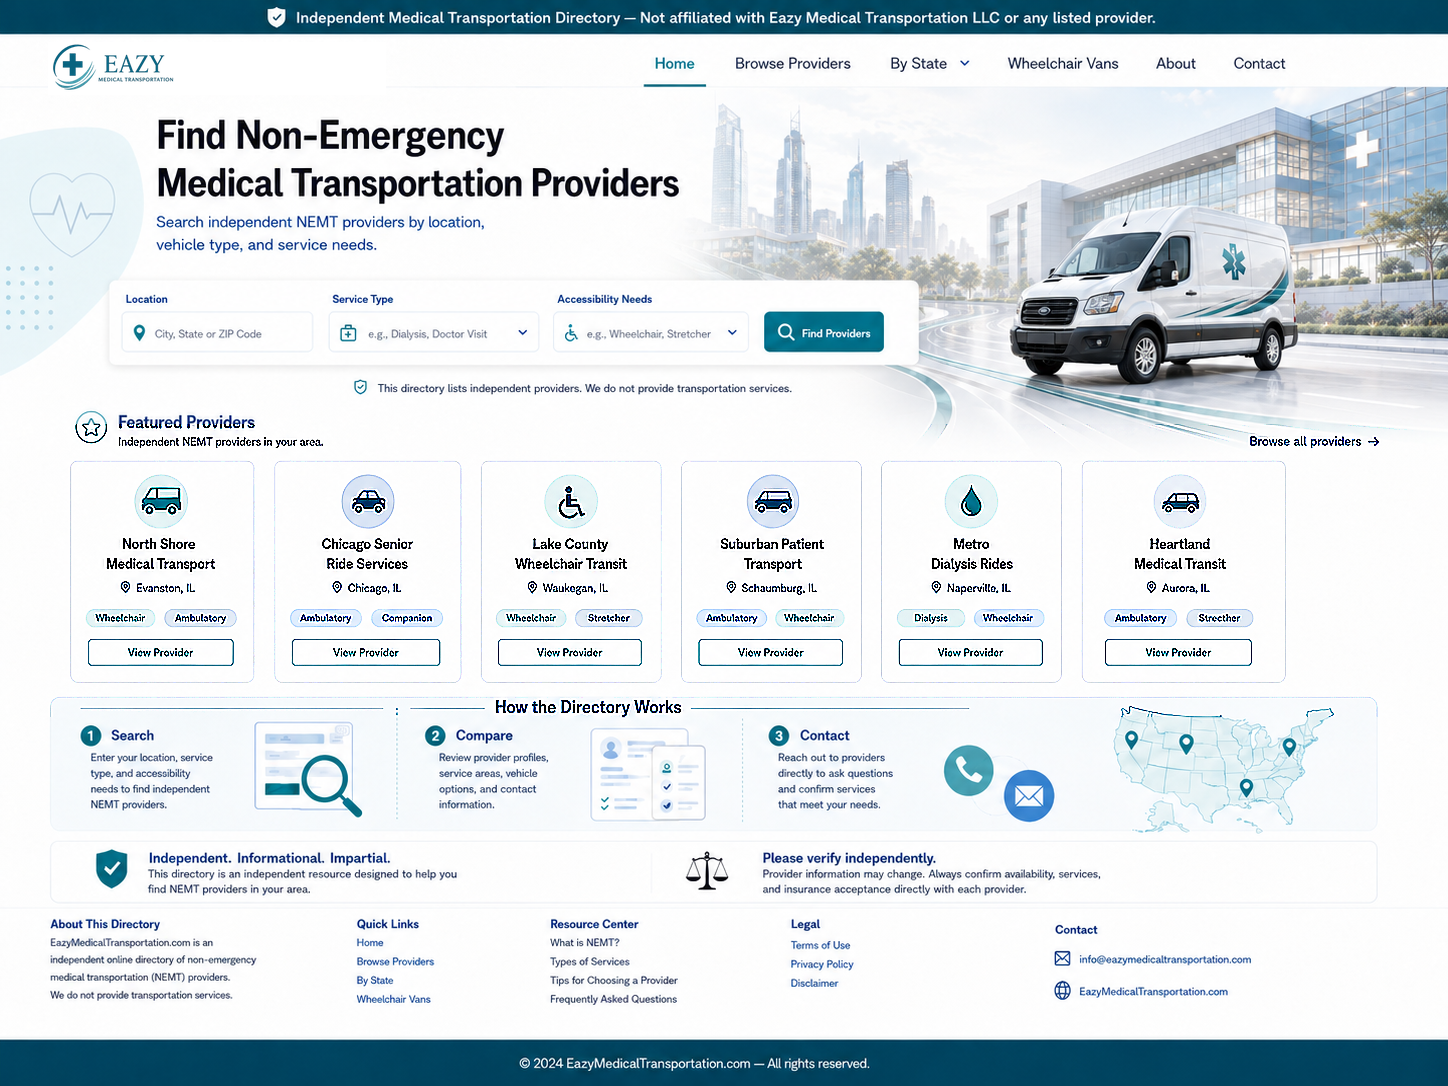
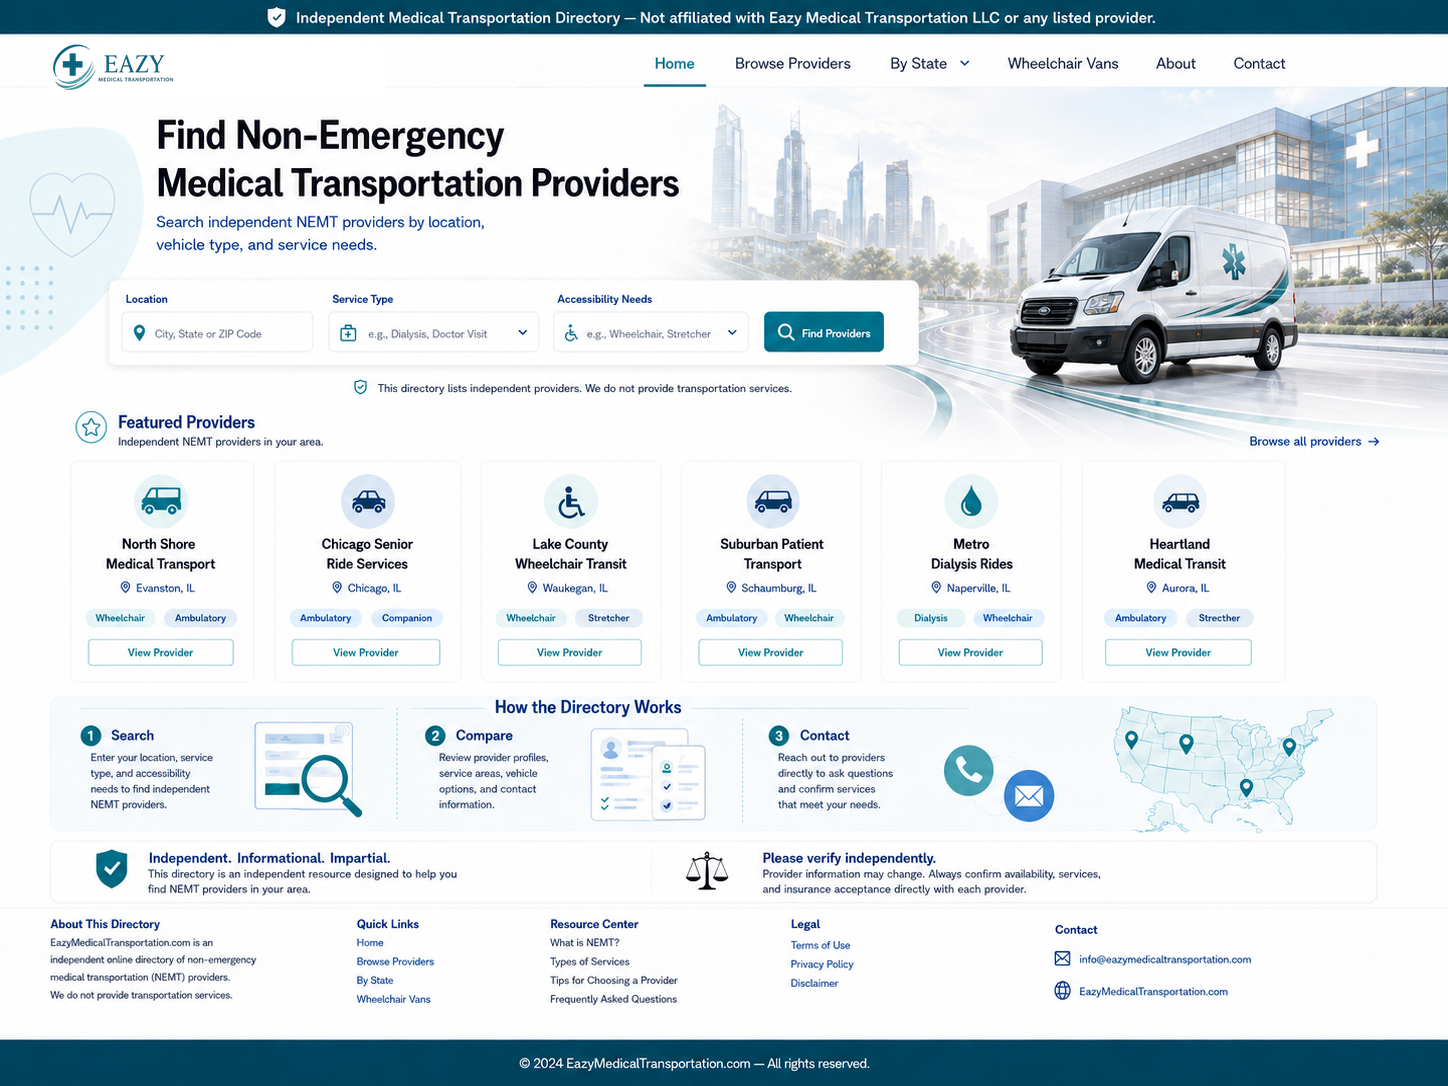
Restore last visually acceptable Eazy version

diff --git a/menu-fix.js b/menu-fix.js
@@ -11,7 +11,7 @@
   function openModal(title,html){const w=document.getElementById('modal'),t=document.getElementById('modalTitle'),b=document.getElementById('modalBody');if(!w||!t||!b)return;t.textContent=title;b.innerHTML=html;w.classList.add('open')}
   function closeModal(){const w=document.getElementById('modal');if(w)w.classList.remove('open')}
   function scrollRatio(r){const root=document.getElementById('desktopDirectory');if(!root)return;window.scrollTo({top:Math.max(0,Math.round(root.offsetTop+root.offsetHeight*r)),behavior:'smooth'})}
-  async function getStateData(abbr){const r=await fetch(`data/providers/${abbr}.json?v=controls6`,{cache:'no-store'});if(!r.ok)throw new Error('State database unavailable');return r.json()}
+  async function getStateData(abbr){const r=await fetch(`data/providers/${abbr}.json?v=controls5`,{cache:'no-store'});if(!r.ok)throw new Error('State database unavailable');return r.json()}
   function providerList(list,note=''){if(!list.length)return `${note?`<div class="claim-callout">${esc(note)}</div>`:''}<div class="claim-callout">No matching providers are currently indexed for this selection.</div>`;return `${note?`<div class="claim-callout">${esc(note)}</div>`:''}<div class="results">${list.slice(0,250).map(p=>`<div class="result"><h3>${esc(p.name)}</h3><p>${esc(p.address1||'')}${p.address1?'<br>':''}${esc(p.city)}, ${esc(p.state)} ${esc(String(p.zip||'').slice(0,5))}${p.phone?`<br>${esc(p.phone)}`:''}</p><div class="tags" style="margin-top:8px">${(p.categories||p.tags||['NEMT']).slice(0,4).map(x=>`<span class="tag">${esc(x)}</span>`).join('')}</div>${p.phone?`<div class="result-actions"><a class="btn-secondary" href="tel:${esc(p.phone)}">Call Provider</a></div>`:''}</div>`).join('')}</div>`}
   function categorySet(data,name){if(!name)return null;return new Set((data.categories?.[name]||[]).map(String))}
   function hasCategory(p,set,name){if(!name)return true;if(set&&set.has(String(p.npi)))return true;return [...(p.categories||[]),...(p.tags||[])].some(x=>String(x).toLowerCase().includes(String(name).toLowerCase()))}
@@ -21,62 +21,6 @@
   function selected(desktop,mobile){return document.getElementById(mobile)?.value||document.getElementById(desktop)?.value||''}
   function stripStateTerms(q,abbr){let s=String(q||''),name=stateName(abbr);s=s.replace(new RegExp(`\\b${abbr}\\b`,'ig'),' ').replace(new RegExp(name.replace(/[.*+?^${}()|[\]\\]/g,'\\$&'),'ig'),' ');return s.replace(/[,]+/g,' ').replace(/\s+/g,' ').trim()}
   async function runSearch(){const q=selected('location','mLocation').trim(),service=selected('service','mService').trim(),access=selected('accessibility','mAccessibility').trim(),zip=zip5(q),abbr=stateFromText(q)||stateFromZip(zip)||window.__eazyMenuState||'IL',name=stateName(abbr);openModal('Find Providers','<div class="claim-callout">Searching provider database…</div>');try{const data=await getStateData(abbr);let list=data.providers||[],note='';if(zip){const exact=list.filter(p=>String(p.zip||'').slice(0,5)===zip);if(exact.length)list=exact;else{const prefix=zip.slice(0,3),near=list.filter(p=>String(p.zip||'').startsWith(prefix));if(near.length){list=near;note=`No providers are indexed in ZIP ${zip}; showing providers in nearby ${prefix}xx ZIP codes.`}else note=`No providers are indexed in ZIP ${zip} or nearby ${prefix}xx ZIP codes; showing ${name} providers.`}}else if(q){const terms=stripStateTerms(q,abbr).toLowerCase().split(/\s+/).filter(Boolean);if(terms.length){const local=list.filter(p=>{const hay=[p.name,p.city,p.zip,p.address1].join(' ').toLowerCase();return terms.every(t=>hay.includes(t))});if(local.length)list=local;else note=`No exact location matches were found for “${q}”; showing ${name} providers.`}}const sset=categorySet(data,service),aset=categorySet(data,access);if(service)list=list.filter(p=>hasCategory(p,sset,service));if(access)list=list.filter(p=>hasCategory(p,aset,access));currentState=abbr;window.__eazyMenuState=abbr;openModal(`${zip?`Providers for ${zip}`:`${name} Providers`} (${list.length})`,providerList(list,note))}catch(e){console.error('Independent provider search failed',e);openModal('Find Providers','<div class="claim-callout">The provider database could not be loaded. Please try again.</div>')}}
-
-  function installCrispProviderCards(){
-    const root=document.getElementById('desktopDirectory');
-    if(!root||root.querySelector('.crisp-provider-layer'))return;
-    const cleanImage='https://raw.githubusercontent.com/Zeitgeist23/eazy-medical-transportation/9a50aa4f7ad5c5aa320b62bad69a23823f7feaf0/directory-landing-approved.png';
-    const img=root.querySelector(':scope > img');
-    if(img)img.src=cleanImage;
-    const style=document.createElement('style');
-    style.textContent=`
-      .crisp-provider-layer{position:absolute;inset:0;z-index:6;pointer-events:none;font-family:Arial,Helvetica,sans-serif;-webkit-font-smoothing:antialiased;text-rendering:geometricPrecision}
-      .crisp-provider-layer .cp-mask{position:absolute;top:48.65%;width:12.15%;height:13.75%;background:#fff;box-sizing:border-box}
-      .crisp-provider-layer .cp-name,.crisp-provider-layer .cp-city,.crisp-provider-layer .cp-tags,.crisp-provider-layer .cp-view{position:absolute;box-sizing:border-box;text-align:center;z-index:1}
-      .crisp-provider-layer .cp-name{top:49.35%;width:12.15%;min-height:3.25%;display:flex;align-items:center;justify-content:center;background:#fff;color:#111827;font-weight:700;font-size:clamp(9px,.72vw,14px);line-height:1.08;padding:0 .22%}
-      .crisp-provider-layer .cp-city{top:53.18%;width:12.15%;height:1.72%;display:flex;align-items:center;justify-content:center;background:#fff;color:#174b83;font-weight:600;font-size:clamp(8px,.60vw,12px);line-height:1}
-      .crisp-provider-layer .cp-tags{top:55.48%;width:12.15%;height:2.18%;display:flex;align-items:center;justify-content:center;gap:.55%;background:#fff}
-      .crisp-provider-layer .cp-tags span{display:inline-flex;align-items:center;justify-content:center;height:1.52vw;max-height:23px;min-height:15px;padding:0 .52vw;border:1px solid #b7dfe7;border-radius:999px;background:#eaf7f9;color:#174b83;font-weight:700;font-size:clamp(7px,.56vw,11px);line-height:1;white-space:nowrap}
-      .crisp-provider-layer .cp-view{top:59.35%;height:2.8%;display:flex;align-items:center;justify-content:center;background:#fff;border:1.5px solid #13889a;border-radius:4px;color:#0b5269;font-weight:700;font-size:clamp(8px,.66vw,13px);line-height:1}
-      @media(max-width:760px){.crisp-provider-layer{display:none}.hero-art{background-image:url('${cleanImage}')!important}}
-    `;
-    document.head.appendChild(style);
-    const cards=[
-      {left:'5.35%',buttonLeft:'6.3%',buttonWidth:'10.3%',name:'North Shore Medical Transport',city:'Evanston, IL',tags:['Wheelchair','Ambulatory']},
-      {left:'19.35%',buttonLeft:'20.2%',buttonWidth:'10.5%',name:'Chicago Senior Ride Services',city:'Chicago, IL',tags:['Ambulatory','Companion']},
-      {left:'33.72%',buttonLeft:'34.6%',buttonWidth:'10.4%',name:'Lake County Wheelchair Transit',city:'Waukegan, IL',tags:['Wheelchair','Stretcher']},
-      {left:'47.82%',buttonLeft:'48.7%',buttonWidth:'10.5%',name:'Suburban Patient Transport',city:'Schaumburg, IL',tags:['Ambulatory','Wheelchair']},
-      {left:'61.22%',buttonLeft:'62.1%',buttonWidth:'10.5%',name:'Metro Dialysis Rides',city:'Naperville, IL',tags:['Dialysis','Wheelchair']},
-      {left:'75.22%',buttonLeft:'76.1%',buttonWidth:'10.5%',name:'Heartland Medical Transit',city:'Aurora, IL',tags:['Ambulatory','Stretcher']}
-    ];
-    const layer=document.createElement('div');
-    layer.className='crisp-provider-layer';
-    layer.setAttribute('aria-hidden','true');
-    layer.innerHTML=cards.map(c=>`<div class="cp-mask" style="left:${c.left}"></div><div class="cp-name" style="left:${c.left}">${esc(c.name)}</div><div class="cp-city" style="left:${c.left}">⌾ ${esc(c.city)}</div><div class="cp-tags" style="left:${c.left}">${c.tags.map(t=>`<span>${esc(t)}</span>`).join('')}</div><div class="cp-view" style="left:${c.buttonLeft};width:${c.buttonWidth}">View Provider</div>`).join('');
-    root.appendChild(layer);
-  }
-
-  function installCrispSearchText(){
-    const root=document.getElementById('desktopDirectory');
-    if(!root||root.querySelector('.crisp-directory-note'))return;
-    const style=document.createElement('style');
-    style.textContent=`
-      #location{background:#fff!important;color:#4d6474!important;-webkit-text-fill-color:#4d6474!important;font-weight:500!important;font-size:clamp(9px,.78vw,14px)!important;-webkit-font-smoothing:antialiased;text-rendering:geometricPrecision}
-      #location::placeholder{color:#4d6474!important;opacity:1!important}
-      #service,#accessibility{color:#4d6474!important;-webkit-text-fill-color:#4d6474!important;font-weight:500!important;font-size:clamp(9px,.76vw,14px)!important;background:linear-gradient(90deg,#fff 0%,#fff 84%,rgba(255,255,255,0) 84%,rgba(255,255,255,0) 100%)!important;-webkit-font-smoothing:antialiased;text-rendering:geometricPrecision}
-      .crisp-directory-note{position:absolute;left:27.5%;top:34.15%;width:55%;height:2.55%;z-index:6;display:flex;align-items:center;justify-content:center;text-align:center;background:#fff;color:#40596b;font:600 clamp(8px,.72vw,13px)/1 Arial,Helvetica,sans-serif;pointer-events:none;-webkit-font-smoothing:antialiased;text-rendering:geometricPrecision}
-      @media(max-width:760px){.crisp-directory-note{display:none}}
-    `;
-    document.head.appendChild(style);
-    const service=document.getElementById('service'),access=document.getElementById('accessibility');
-    if(service&&service.options.length)service.options[0].textContent='e.g., Dialysis, Doctor Visit';
-    if(access&&access.options.length)access.options[0].textContent='e.g., Wheelchair, Stretcher';
-    const note=document.createElement('div');
-    note.className='crisp-directory-note';
-    note.textContent='This directory lists independent providers. We do not provide transportation services.';
-    root.appendChild(note);
-  }
-
   const actions={'Eazy Medical Transportation home':()=>scrollRatio(0),'Home':()=>scrollRatio(0),'Browse Providers':()=>scrollRatio(.37),'Browse by State':el=>showStateDropdown(el),'Wheelchair Vans':()=>wheelchair(),'About':()=>scrollRatio(.835),'Footer Home':()=>scrollRatio(0),'Footer Browse Providers':()=>scrollRatio(.37),'Footer By State':el=>showStateDropdown(el),'Footer Wheelchair Vans':()=>wheelchair(),'EazyMedicalTransportation.com home':()=>scrollRatio(0),'Close':()=>closeModal()};
   document.addEventListener('click',e=>{const el=e.target.closest('[aria-label]');if(!el)return;const label=el.getAttribute('aria-label');if(label==='Find Providers'){e.preventDefault();e.stopImmediatePropagation();runSearch();return}const fn=actions[label];if(!fn)return;e.preventDefault();e.stopImmediatePropagation();fn(el)},true);
   document.addEventListener('click',e=>{if(e.target?.id==='modal'){e.preventDefault();e.stopImmediatePropagation();closeModal();return}if(dropdown&&!dropdown.contains(e.target)&&!e.target.closest('[aria-label="Browse by State"],[aria-label="Footer By State"]'))closeDropdown()},true);
@@ -84,6 +28,4 @@
   document.addEventListener('submit',e=>{if(e.target?.id==='mSearch'){e.preventDefault();e.stopImmediatePropagation();runSearch()}},true);
   window.__eazyIndependentSearch=runSearch;
   window.__eazyIndependentCloseModal=closeModal;
-  installCrispSearchText();
-  installCrispProviderCards();
 })();

diff --git a/index.html b/index.html
@@ -99,6 +99,5 @@ async function ensureStateFromSearch(){const f=getSearchValues(),entry=inferStat
 async function runMobileSearch(e){e.preventDefault();try{await ensureStateFromSearch()}catch(_){}const list=getFilteredProviders();openModal(`Matching ${currentStateName} Providers (${list.length})`,renderProviderList(list.slice(0,250)))}async function runSearch(){try{await ensureStateFromSearch()}catch(_){}const list=getFilteredProviders();openModal(`Matching ${currentStateName} Providers (${list.length})`,renderProviderList(list.slice(0,250)))}
 document.getElementById('modal').addEventListener('click',e=>{if(e.target.id==='modal')closeModal()});document.addEventListener('keydown',e=>{if(e.key==='Escape')closeModal()});populateStateMenus();loadProviders('IL');
 </script>
-<script src="safe-ui-fixes.js?v=1"></script>
 </body>
 </html>
